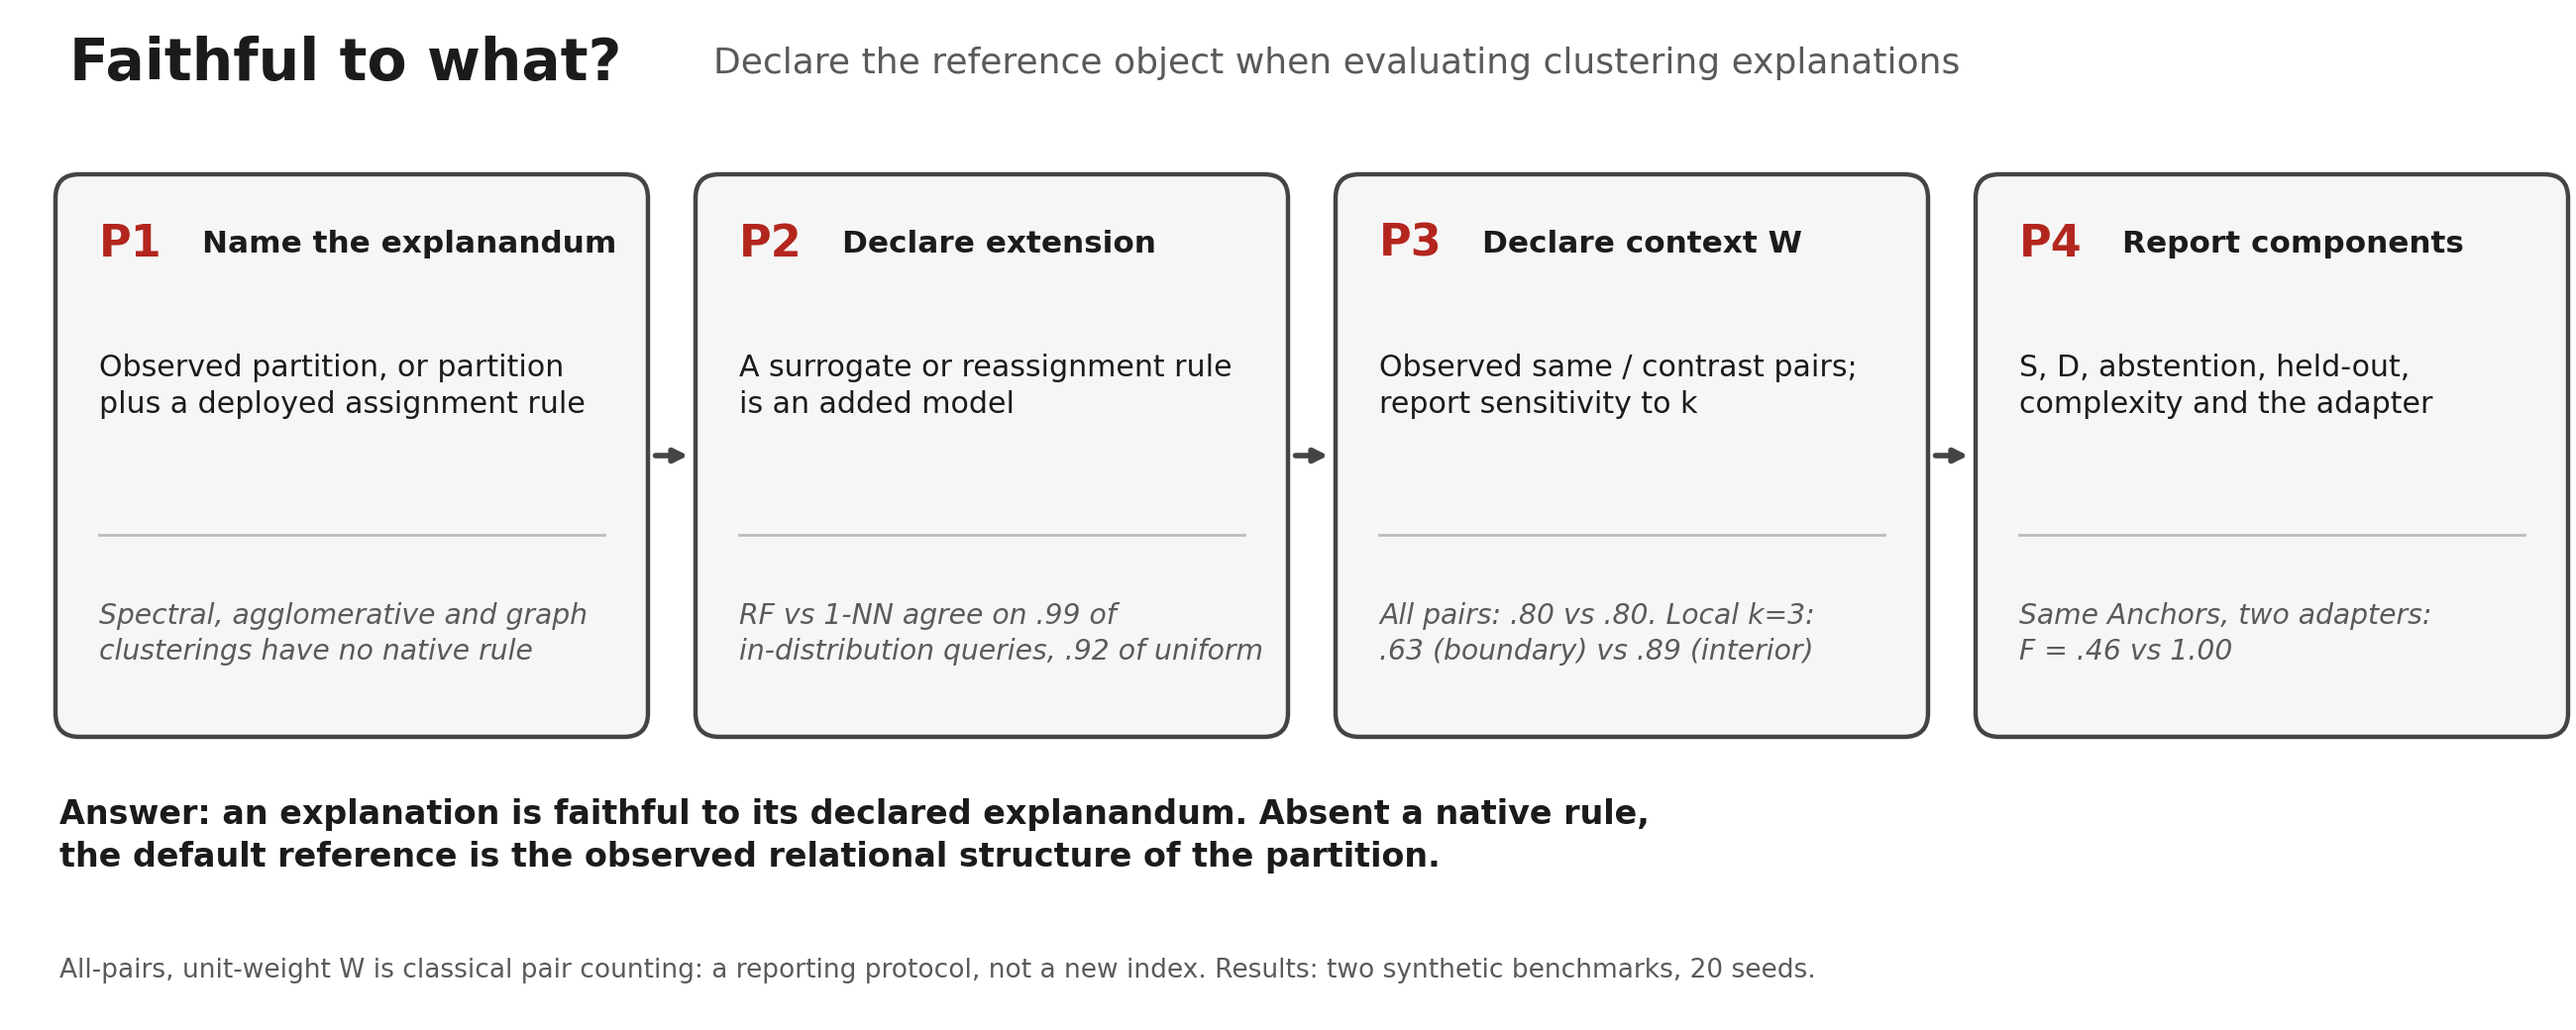
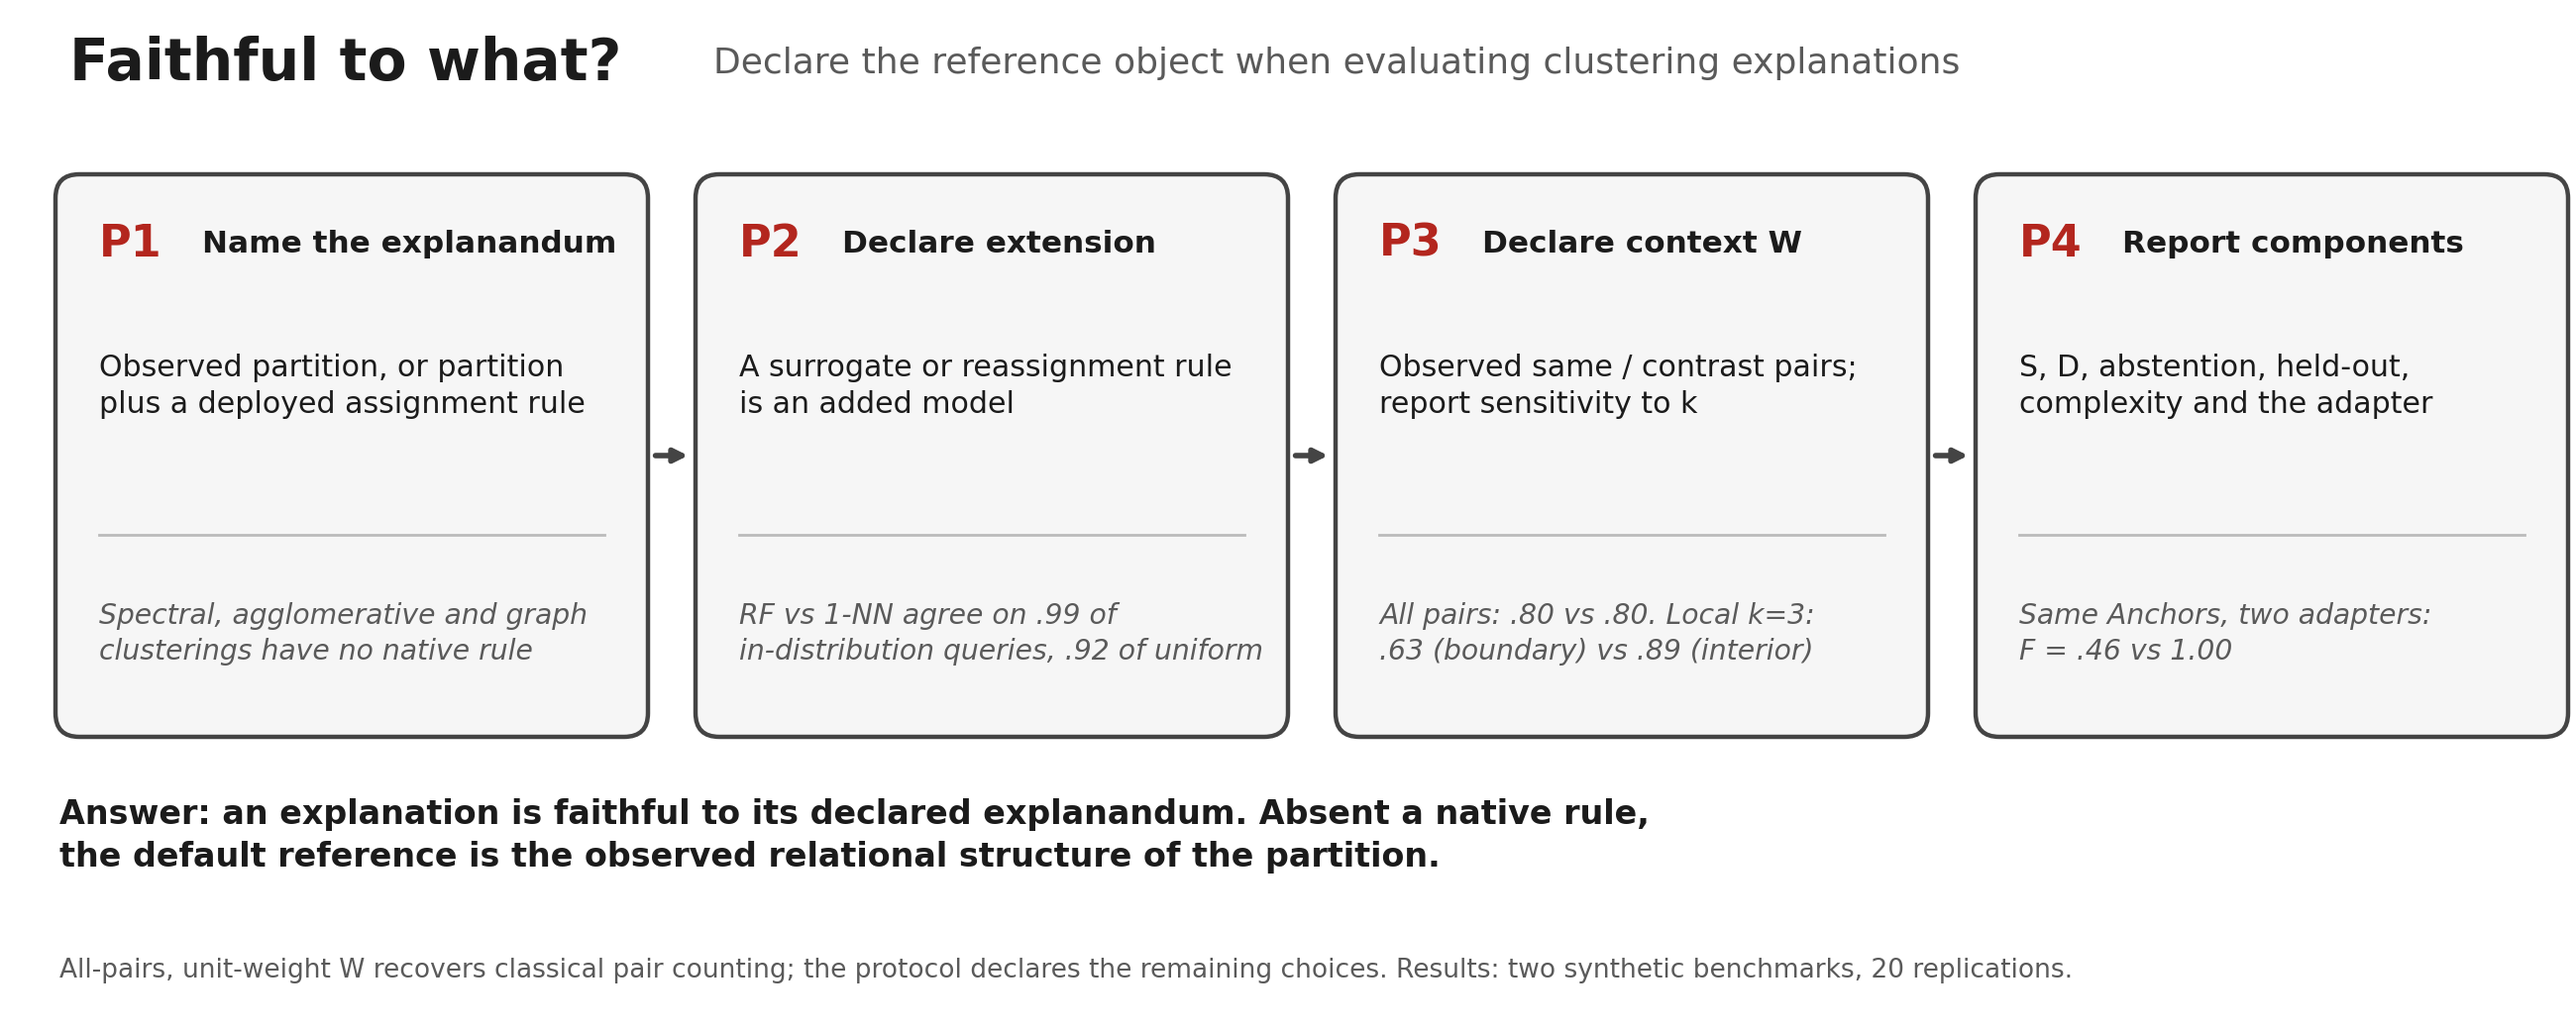
Graphical abstract: update footer wording

Changed region(s): [[0.1558, 0.9231, 0.81, 0.9538]]

diff --git a/make_graphical_abstract.py b/make_graphical_abstract.py
@@ -45,8 +45,8 @@ for i, (tag, head, what, res) in enumerate(boxes):
 ax.text(.3, .98, 'Answer: an explanation is faithful to its declared explanandum. Absent a native rule,\n'
         'the default reference is the observed relational structure of the partition.',
         fontsize=12, fontweight='bold', color=INK, va='center', linespacing=1.35)
-ax.text(.3, .3, 'All-pairs, unit-weight W is classical pair counting: a reporting protocol, not a new index. '
-        'Results: two synthetic benchmarks, 20 seeds.', fontsize=9.5, color=GRAY, va='center')
+ax.text(.3, .3, 'All-pairs, unit-weight W recovers classical pair counting; the protocol declares the remaining choices. '
+        'Results: two synthetic benchmarks, 20 replications.', fontsize=9.5, color=GRAY, va='center')
 
 fig.savefig(OUT / 'graphical_abstract.png', dpi=200)
 Image.open(OUT / 'graphical_abstract.png').convert('RGB').save(OUT / 'graphical_abstract.tiff', compression='tiff_lzw')
